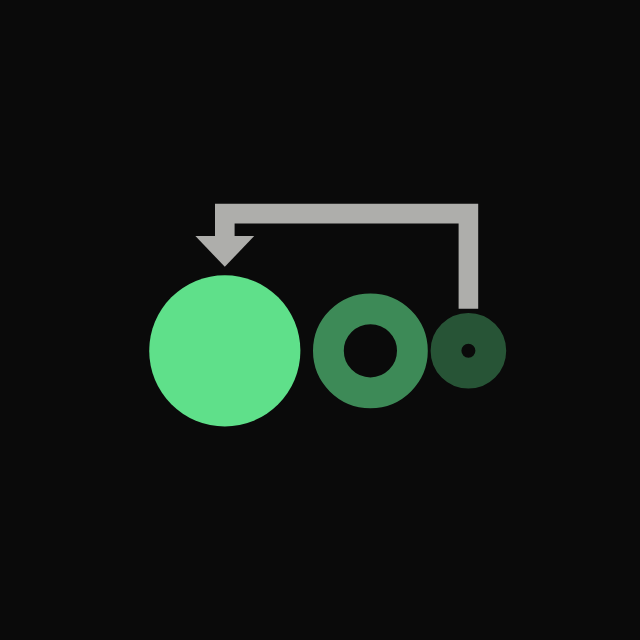
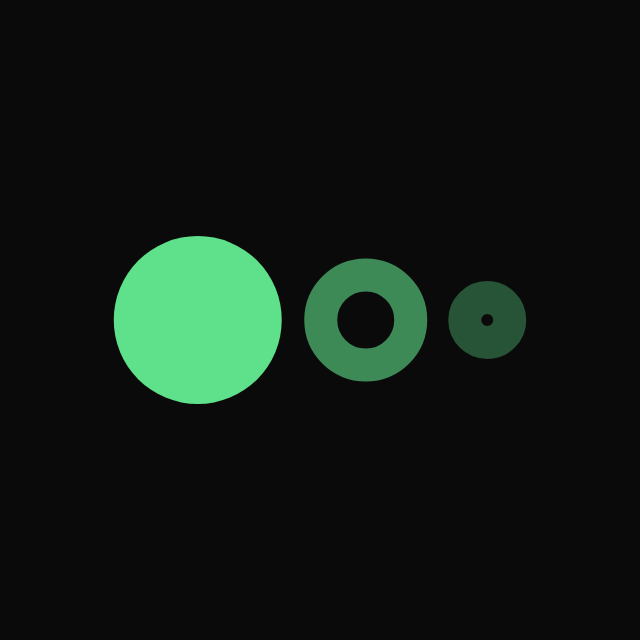
Drop the feedback wire from the Echo mark
The owner didn't like the wire and arrow over the circles. The mark is
now just the three circles (solid phosphor-green node, two fading
rings) on the black square, re-spaced with clean gaps instead of the
slight overlaps. icon.svg, the avatar SVG and its 640x640 PNG, and
the OAuth page's copy all change together; docs/brand/README.md
records that the wire was tried and turned down.

Claude-Session: https://claude.ai/code/session_01KtyPCsVADHW4Rgjnq2WKNu

Changed region(s): [[0.1562, 0.3125, 0.8438, 0.6875]]

diff --git a/app/web/oauth.py b/app/web/oauth.py
@@ -116,12 +116,10 @@ EXPIRED = "Запрос не найден или устарел. Начни по
 # app's (app/web/static/app.css), the mark is app/web/static/icon.svg.
 _MARK = (
     "<svg class=mark viewBox='0 0 32 32' aria-hidden=true>"
-    "<g fill=currentColor stroke=currentColor>"
-    "<path d='M27.4 14.4V7.6H10v1.6' fill=none stroke-width=1.4 stroke-opacity=.75 />"
-    "<path d='M7.9 9.2h4.2L10 11.4z' stroke=none fill-opacity=.75 />"
-    "<circle cx=10 cy=17.4 r=5.4 stroke=none />"
-    "<g fill=none stroke-width=2.2><circle cx=20.4 cy=17.4 r=3 stroke-opacity=.6 />"
-    "<circle cx=27.4 cy=17.4 r=1.6 stroke-opacity=.35 /></g></g></svg>"
+    "<circle cx=7.85 cy=16 r=5.6 fill=currentColor />"
+    "<g fill=none stroke=currentColor stroke-width=2.2>"
+    "<circle cx=19.05 cy=16 r=3 stroke-opacity=.6 />"
+    "<circle cx=27.15 cy=16 r=1.5 stroke-opacity=.35 /></g></svg>"
 )
 _STYLE = (
     ":root{color-scheme:light dark;--bg:#faf8f5;--surface:#fff;--text:#292524;"

diff --git a/docs/brand/README.md b/docs/brand/README.md
@@ -65,11 +65,11 @@ properly.
 
 ## The mark
 
-Three circles, each smaller and fainter (the echo), and a wire routing
-the last one back into the first, the way a feedback loop is drawn in a
-block diagram: what goes out comes back. The first node is solid
-phosphor green (`#5fe08a`), the other two are fading rings, and the
-wire is off-white (`#e6e6e1` at 75%) on a black square (`#0a0a0a`).
+Three circles, each smaller and fainter: a signal and its echo, drawn
+as the nodes of a diagram. The first node is solid phosphor green
+(`#5fe08a`) and the other two are fading rings, on a black square
+(`#0a0a0a`). The mark has no wire or arrow on purpose: the owner tried
+a feedback-loop wire over the circles and turned it down.
 The geometry is on a 32-unit grid and is shared by:
 
 - `app/web/static/icon.svg`: the favicon, on its black tile, which

diff --git a/README.md b/README.md
@@ -6,8 +6,7 @@ stays as an alias everywhere below the surface — the package, env vars
 note labels, the plan files, and the Railway services. Only what the user
 sees says Echo.
 
-The mark (three circles, each smaller and fainter, with a wire
-feeding the last back into the first) is
+The mark (three circles, each smaller and fainter) is
 `app/web/static/icon.svg`; the Telegram avatar is
 `docs/brand/echo-avatar.png` (set it with BotFather's `/setuserpic`).
 The visual reference (the "cybersyn" mood board) and the web UI's
